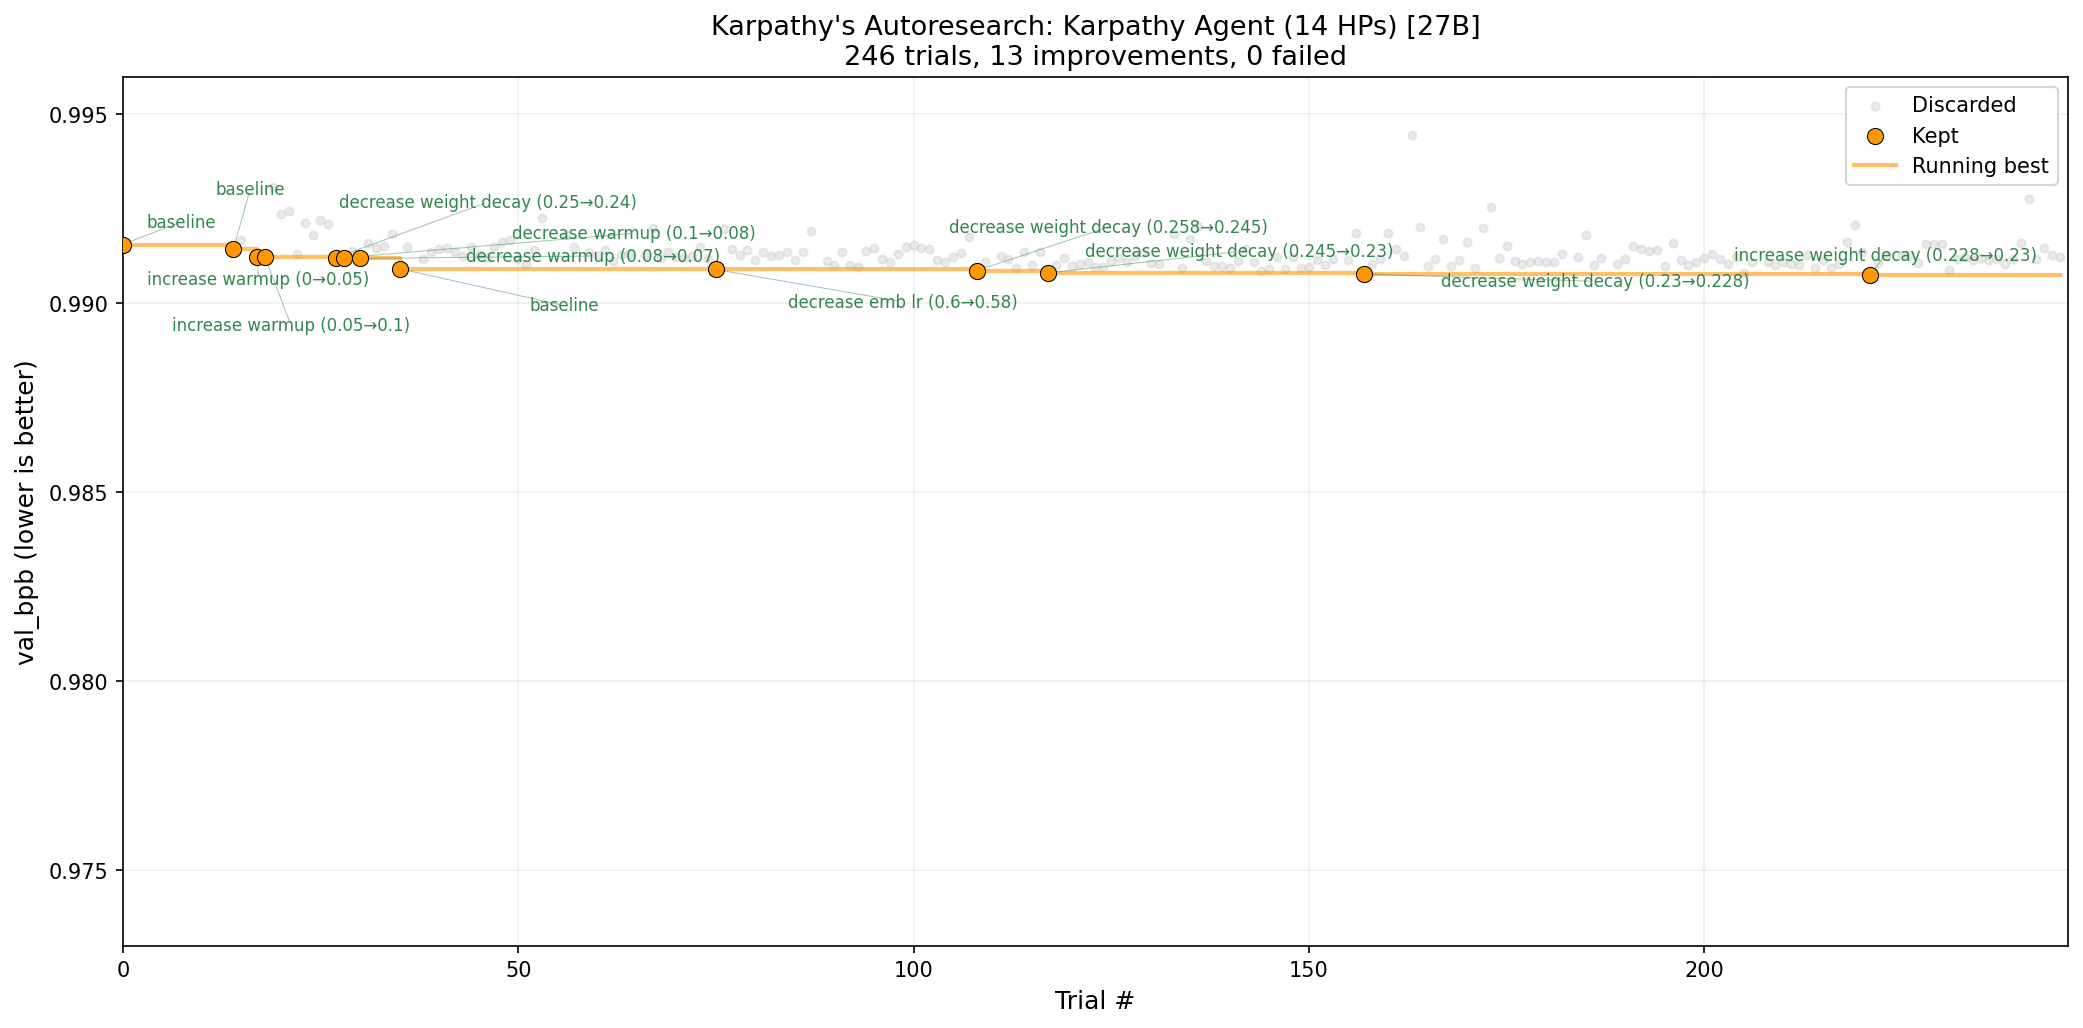
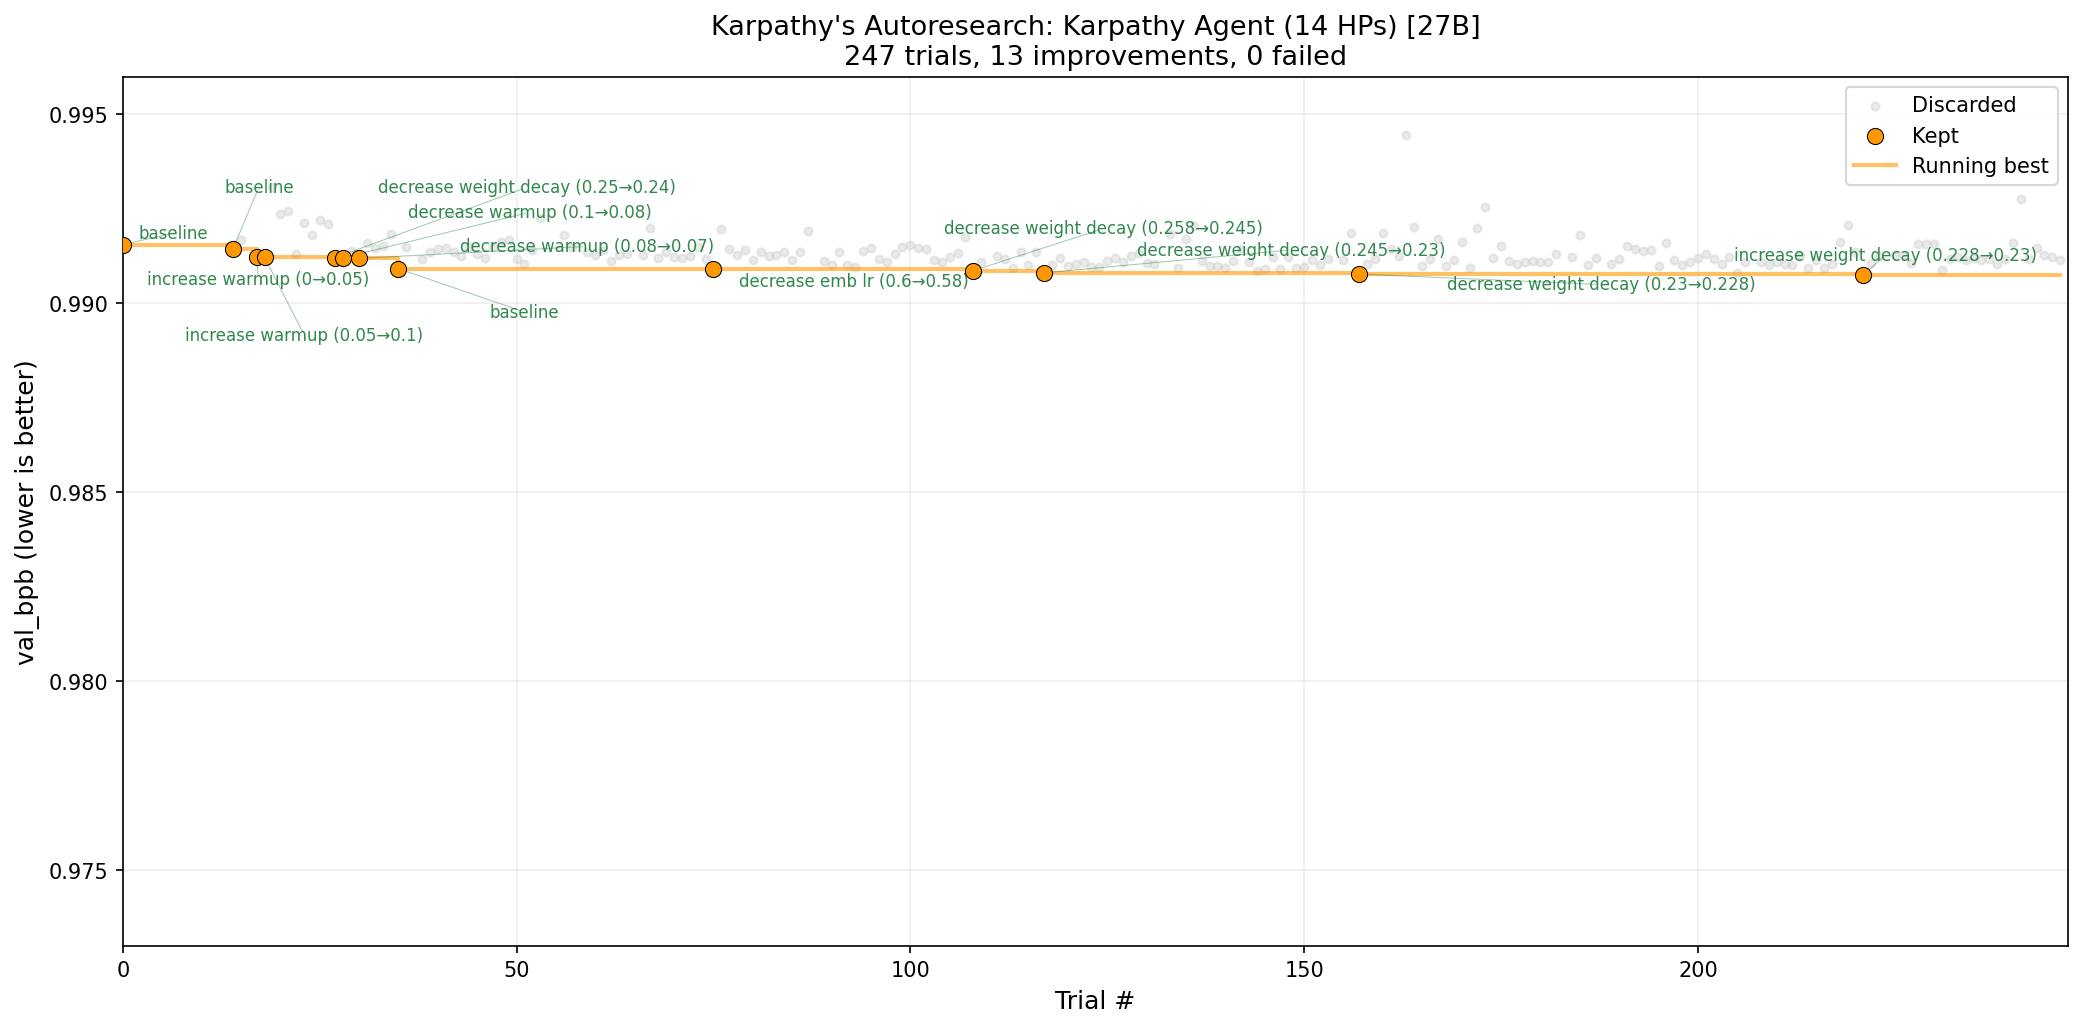
Fix incumbent plots: 300 trials x-axis, auto y-zoom to incumbent range, stronger text repulsion

diff --git a/scripts/plot_convergence.py b/scripts/plot_convergence.py
@@ -556,13 +556,20 @@ def plot_progress_subplot(ax, bench_dir, backend_name, display_name, color, desc
     n_fail = sum(1 for t in trials if not t.get("success", False))
     ax.set_title(f"{display_name}\n{len(trials)} trials, {len(incumbents)} impr., {n_fail} fail",
                  fontsize=9)
-    ax.set_xlim(0, len(trials))
-    ax.set_ylim(0.973, 0.996)
+    ax.set_xlim(0, 300)
+    # Auto y-axis: zoom to incumbent range with padding, ignore outliers
+    if inc_y:
+        ymin = min(inc_y)
+        # Use baseline (first successful trial) as upper bound
+        ymax = inc_y[0] if inc_y else 0.996
+        margin = (ymax - ymin) * 0.3 or 0.002
+        ax.set_ylim(ymin - margin, ymax + margin * 0.5)
     ax.grid(True, alpha=0.2)
 
     if texts:
         adjust_text(texts, ax=ax, arrowprops=dict(arrowstyle="-", color="#1a7a3a", alpha=0.4, lw=0.5),
-                    force_points=(0.5, 0.8), force_text=(0.5, 0.8), expand=(1.2, 1.4))
+                    force_points=(1.0, 1.5), force_text=(1.0, 1.5), expand=(1.5, 1.8),
+                    iterations=200)
 
 
 def _best_seed(bench_dir: Path, backend_name: str) -> int:
